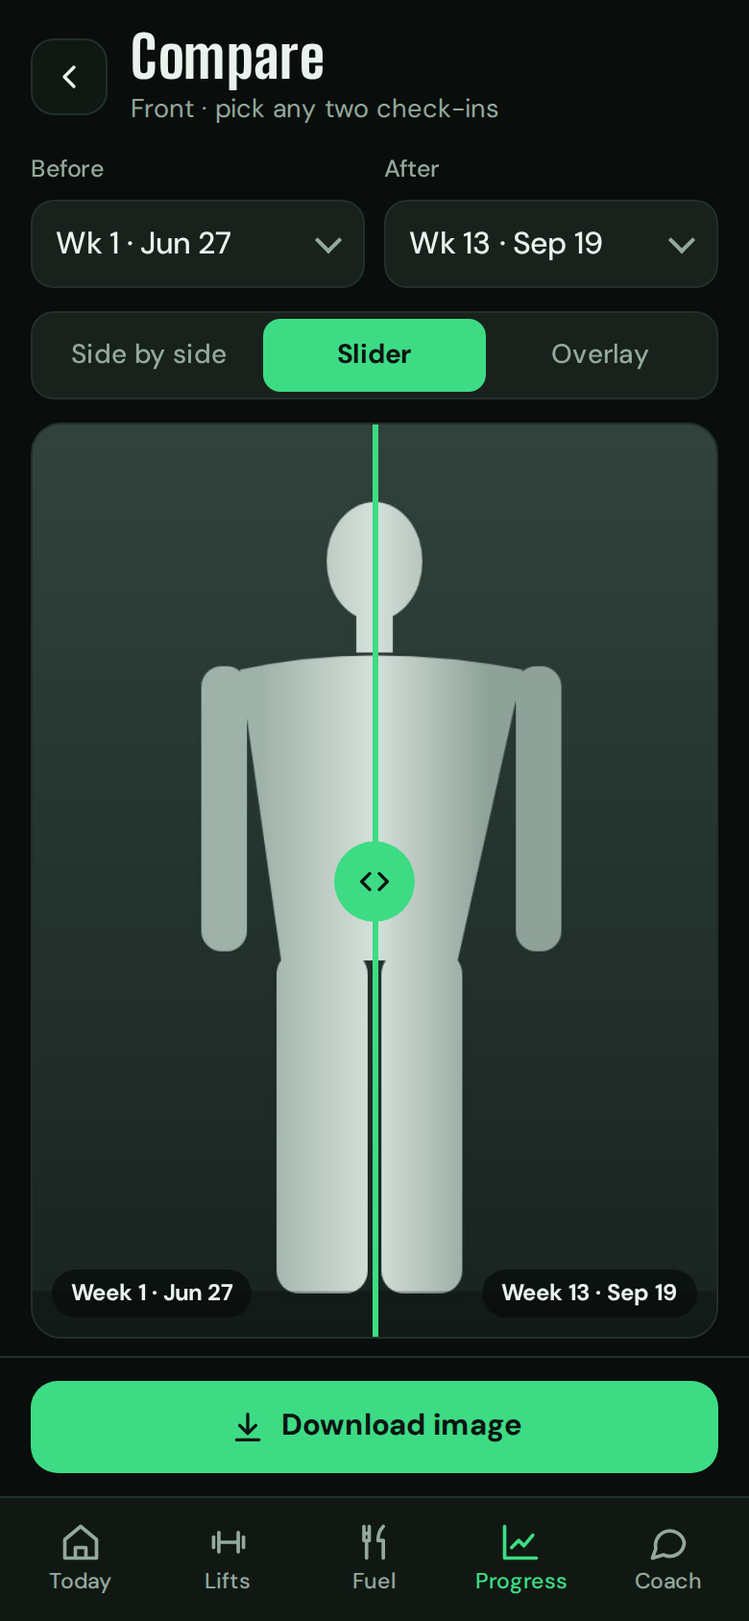
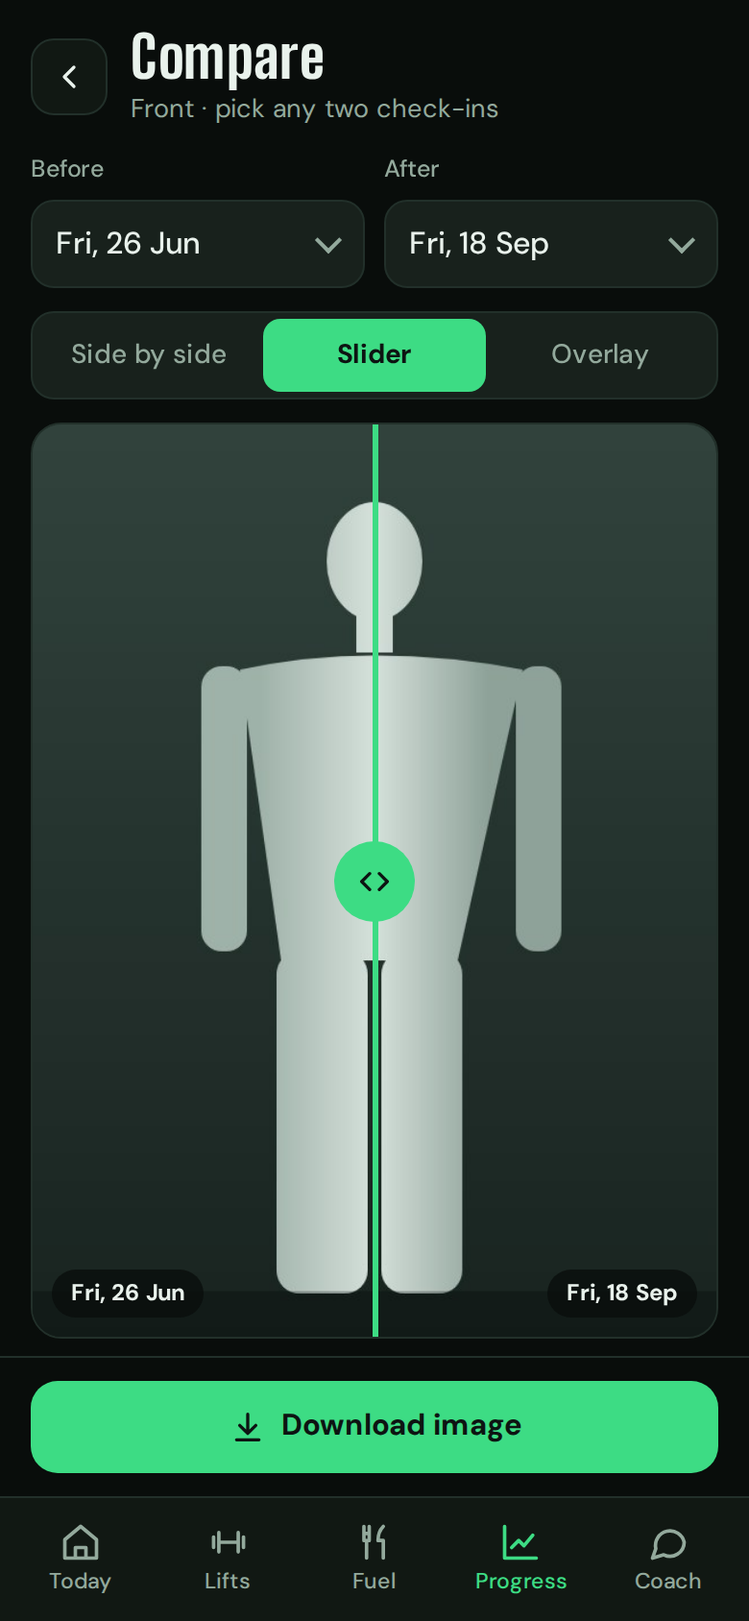
Label photo check-ins by date, not week number
Photos, trend, compare and exports now name each weekly check-in by its
date (Fri, 18 Sep). The Photos screen picks a check-in from one date list
instead of 26 "Wk N" pills, the trend scrubber shows about five date
labels, and compare downloads are named by their two dates. The internal
week index is unchanged and never shown. Service worker cache bumped to
v5 so installed copies pick this up.

diff --git a/js/screens-trend.js b/js/screens-trend.js
@@ -16,7 +16,10 @@
   // One decimal everywhere on these screens, so columns line up: 82.0, -1.0, +0.7.
   const f1 = (x) => (Math.round(x * 10) / 10).toFixed(1);
   const signed = (x) => { const v = Math.round(x * 10) / 10; return (v > 0 ? '+' : v < 0 ? '-' : '') + Math.abs(v).toFixed(1); };
-  const wk = (w) => 'Wk ' + w;
+  // Check-ins are labelled by their date, never by a week number. SLOT maps an internal check-in index to that date.
+  const SLOT = {};
+  const wk = (w) => (SLOT[w] ? U.shortDate(SLOT[w]) : '');
+  function setSlots(st, set, cis) { for (const c of cis) SLOT[c.week] = c.date || E.checkinDate(st.plan.startDate, c.week, set.checkinDay); }
   const clamp = (x, a, b) => Math.max(a, Math.min(b, x));
   function revokeUrls() { for (const u of urls) URL.revokeObjectURL(u); urls = []; }
   function stopTimer() { if (timer) clearInterval(timer); timer = null; }
@@ -87,6 +90,7 @@
     const angle = T.angle;
     const curWeek = E.clamp(E.weekOf(st.plan.startDate, U.today()), 1, E.WEEKS);
     const cis = E.checkIns(st, angle, curWeek), have = cis.filter((c) => c.photo), n = cis.length;
+    setSlots(st, set, cis);
     const pills = anglePills((a) => { T.angle = a; T.week = null; T.reveal = false; root.App.render(); });
     const back = { back: '#/photos' };
 
@@ -109,12 +113,13 @@
     const keys = ['weight', 'waist', third];
     const cards = keys.map((k) => ({ k, lab: h('span', { class: 'tl' }, KEYS[k].label), val: h('b', null), unit: h('small', null), delta: h('div', { class: 'td' }) }));
     const statRow = h('div', { class: 'tstats' }, cards.map((c) => h('div', { class: 'tstat' }, c.lab, h('div', { class: 'tv' }, c.val, c.unit), c.delta)));
-    const note = h('div', { class: 'muted small' }, 'Change since week ' + have[0].week + '. Green means toward your goal.');
+    const note = h('div', { class: 'muted small' }, 'Change since ' + wk(have[0].week) + '. Green means toward your goal.');
 
     // scrubber
     const line = h('div', { class: 'scrub-line' }, h('div', { class: 'scrub-fill' }));
-    const showLabel = (w) => n <= 10 || w === 1 || w === n || w % 5 === 0;
-    const dotEls = cis.map((c) => h('span', { class: 'sdot' + (c.photo ? ' has' : '') + (showLabel(c.week) ? '' : ' nolab') }, h('i', { class: 'd' }), h('b', { class: 'w' }, String(c.week))));
+    const every = Math.max(1, Math.ceil(n / 5)); // about five date labels along the line, so they never overlap
+    const showLabel = (i) => i === 0 || i === n - 1 || (i % every === 0 && n - 1 - i >= every);
+    const dotEls = cis.map((c, i) => h('span', { class: 'sdot' + (c.photo ? ' has' : '') + (showLabel(i) ? '' : ' nolab') + (i === 0 ? ' first' : i === n - 1 ? ' last' : '') }, h('i', { class: 'd' }), h('b', { class: 'w' }, wk(c.week))));
     const scrub = h('div', { class: 'scrub', role: 'slider', tabindex: '0', 'aria-label': 'Check-in', 'aria-valuemin': '0', 'aria-valuemax': String(n - 1) }, line, ...dotEls);
     scrub.style.setProperty('--n', String(n)); if (n > 14) scrub.classList.add('dense');
     const idxOf = (w) => cis.findIndex((c) => c.week === w);
@@ -137,9 +142,9 @@
 
     // thumbnails
     const thumbEls = cis.map((c) => {
-      if (!c.photo) return h('a', { href: '#/photos', class: 'tthumb none', 'aria-label': 'Add week ' + c.week + ' ' + angle + ' photo', onclick: () => Screens._.gotoWeek(c.week) }, h('span', { class: 'tbox' }, U.icon('plus', 18)), h('span', { class: 'tw' }, wk(c.week)));
+      if (!c.photo) return h('a', { href: '#/photos', class: 'tthumb none', 'aria-label': 'Add ' + angle + ' photo for ' + wk(c.week), onclick: () => Screens._.gotoWeek(c.week) }, h('span', { class: 'tbox' }, U.icon('plus', 18)), h('span', { class: 'tw' }, wk(c.week)));
       const im = h('img', { alt: '' });
-      return Object.assign(h('button', { type: 'button', class: 'tthumb', 'aria-label': 'Show week ' + c.week, onclick: () => { stop(); pick(c.week); } }, h('span', { class: 'tbox' + (blurOn ? ' blur' : '') }, im), h('span', { class: 'tw' }, wk(c.week))), { im });
+      return Object.assign(h('button', { type: 'button', class: 'tthumb', 'aria-label': 'Show ' + wk(c.week), onclick: () => { stop(); pick(c.week); } }, h('span', { class: 'tbox' + (blurOn ? ' blur' : '') }, im), h('span', { class: 'tw' }, wk(c.week))), { im });
     });
     const strip = h('div', { class: 'tstrip' }, thumbEls);
     const chartBox = h('div', null);
@@ -147,7 +152,7 @@
 
     const enough = have.length >= 2;
     const foot = h('div', { class: 'foot' },
-      UI.btn('Download time-lapse', { icon: 'download', disabled: !enough, onClick: () => Screens._.videoSheet({ angle, items: have, index: Math.max(0, have.findIndex((c) => c.week === T.week)), numbersText, wkLabel: (c) => 'Week ' + c.week + ' · ' + U.shortDate(c.date) }) }),
+      UI.btn('Download time-lapse', { icon: 'download', disabled: !enough, onClick: () => Screens._.videoSheet({ angle, items: have, index: Math.max(0, have.findIndex((c) => c.week === T.week)), numbersText, wkLabel: (c) => U.longDate(c.date) }) }),
       UI.btn('Compare two dates', { href: '#/photos/compare', kind: 'quiet' }),
       enough ? null : h('div', { class: 'muted small centered' }, 'Add this angle at two check-ins to download or compare.'));
 
@@ -179,14 +184,14 @@
       const cur = cis.find((c) => c.week === T.week), ci = idxOf(T.week), url = urlByWeek[T.week];
       const hidden = blurOn && !T.reveal;
       if (url) { if (img.getAttribute('src') !== url) img.src = url; } else img.removeAttribute('src');
-      img.alt = angle + ', week ' + cur.week;
+      img.alt = angle + ', ' + wk(cur.week);
       stage.classList.toggle('blur', hidden);
       badge.textContent = hidden ? 'Blurred · tap to reveal' : 'Tap to blur';
       eye.classList.toggle('hidden', !hidden);
       stage.setAttribute('aria-label', hidden ? 'Reveal photo' : 'Blur photo');
-      cap.textContent = loaded && !url ? 'This photo is not on this device' : 'Week ' + cur.week + ' · ' + U.shortDate(cur.date);
+      cap.textContent = loaded && !url ? 'This photo is not on this device' : U.longDate(cur.date);
       // scrubber
-      scrub.setAttribute('aria-valuenow', String(ci)); scrub.setAttribute('aria-valuetext', 'Week ' + cur.week + ', ' + U.shortDate(cur.date));
+      scrub.setAttribute('aria-valuenow', String(ci)); scrub.setAttribute('aria-valuetext', U.longDate(cur.date));
       line.firstChild.style.width = (n > 1 ? (ci / (n - 1)) * 100 : 0) + '%';
       cis.forEach((c, i) => { dotEls[i].classList.toggle('cur', i === ci); dotEls[i].classList.toggle('past', i < ci); });
       thumbEls.forEach((t, i) => { if (!cis[i].photo) return; t.classList.toggle('cur', i === ci); const u = urlByWeek[cis[i].week]; if (u && t.im.getAttribute('src') !== u) t.im.src = u; });
@@ -223,6 +228,7 @@
     const st = Store.getState(), set = Store.getSettings();
     if (!T.angle) T.angle = trendAngle(st);
     const angle = T.angle, cis = E.checkIns(st, angle), have = cis.filter((c) => c.photo);
+    setSlots(st, set, cis);
     const head = UI.header('Compare', angle + ' · pick any two check-ins', { back: '#/photos/trend' });
     if (have.length < 2) {
       return UI.page(head, UI.scroller(UI.card(h('div', { class: 'muted' }, 'Add ' + angle + ' photos at two check-ins to compare them.'), UI.btn('Open photo check-in', { href: '#/photos', kind: 'quiet' }))));
@@ -234,7 +240,7 @@
 
     const selectFor = (which, label) => {
       const s = h('select', { class: 'inp', 'aria-label': label, onchange: () => { CMP[which] = Number(s.value); redraw(); } },
-        ...have.map((c) => h('option', { value: String(c.week), selected: c.week === CMP[which] }, wk(c.week) + ' · ' + U.shortDate(c.date))));
+        ...have.map((c) => h('option', { value: String(c.week), selected: c.week === CMP[which] }, U.longDate(c.date))));
       return h('label', { class: 'field flex' }, h('span', { class: 'lab' }, label), h('span', { class: 'selbox' }, s));
     };
     const modeSeg = UI.seg({ options: [{ value: 'side', label: 'Side by side' }, { value: 'slider', label: 'Slider' }, { value: 'overlay', label: 'Overlay' }], value: CMP.mode, onChange: (v) => { CMP.mode = v; redraw(); } });
@@ -246,12 +252,12 @@
     let loaded = false;
 
     const pill = (t, side) => h('span', { class: 'cmplabel ' + side }, t);
-    const photo = (w, cls) => { const im = h('img', { class: cls || '', alt: angle + ' week ' + w }); const u = urlByWeek[w]; if (u) im.src = u; return im; };
+    const photo = (w, cls) => { const im = h('img', { class: cls || '', alt: angle + ', ' + wk(w) }); const u = urlByWeek[w]; if (u) im.src = u; return im; };
 
     function redraw() {
       const ca = byWeek(CMP.a), cb = byWeek(CMP.b), hidden = blurOn && !CMP.reveal;
       U.clear(stageBox);
-      const la = 'Week ' + ca.week + ' · ' + U.shortDate(ca.date), lb = 'Week ' + cb.week + ' · ' + U.shortDate(cb.date);
+      const la = U.longDate(ca.date), lb = U.longDate(cb.date);
       if (CMP.mode === 'side') {
         stageBox.appendChild(h('div', { class: 'cmp-side' + (hidden ? ' blur' : '') }, h('div', { class: 'cmp-cell' }, photo(ca.week), pill(wk(ca.week), 'l')), h('div', { class: 'cmp-cell' }, photo(cb.week), pill(wk(cb.week), 'l'))));
         help.textContent = 'Same pose, same light. Look at the same spots on both.';

diff --git a/js/screens-progress.js b/js/screens-progress.js
@@ -150,7 +150,11 @@
     const cur = E.clamp(E.weekOf(plan.startDate, t), 1, E.WEEKS);
     if (selWeek == null || selWeek > cur) selWeek = cur;
     const chosen = selWeek;
-    const wkSeg = UI.pills({ label: 'Check-in week', items: E.PHOTO_WEEKS.filter((w) => w <= cur).map((w) => 'Wk ' + w), values: new Set(['Wk ' + chosen]), multi: false, onChange: (v) => { selWeek = Number(Array.from(v)[0].slice(3)); root.App.render(); } });
+    const ciName = (w) => U.shortDate(E.checkinDate(plan.startDate, w, set.checkinDay));
+    // One check-in per week, named by its date. A list rather than a wall of pills: 26 weeks is a lot of buttons.
+    const wkSel = h('select', { class: 'inp', 'aria-label': 'Check-in date', onchange: () => { selWeek = Number(wkSel.value); root.App.render(); } },
+      ...E.PHOTO_WEEKS.filter((w) => w <= cur).reverse().map((w) => h('option', { value: String(w), selected: w === chosen }, U.longDate(E.checkinDate(plan.startDate, w, set.checkinDay)) + (w === cur ? ' (this week)' : ''))));
+    const wkSeg = h('label', { class: 'field' }, h('span', { class: 'lab' }, 'Check-in date'), h('span', { class: 'selbox' }, wkSel));
     const input = h('input', { type: 'file', accept: 'image/*', class: 'hidden', 'aria-label': 'Choose a photo' });
     let pendingAngle = null;
     input.addEventListener('change', async () => {
@@ -173,7 +177,7 @@
     for (const angle of E.ANGLES) {
       const p = st.photos.find((x) => x.week === chosen && x.angle === angle);
       if (!p) { slots.appendChild(h('button', { type: 'button', class: 'thumb empty-slot', onclick: () => pick(angle), 'aria-label': 'Add ' + angle + ' photo' }, h('div', null, U.icon('camera', 24), h('div', null, angle)))); continue; }
-      const img = h('img', { alt: angle + ', week ' + chosen });
+      const img = h('img', { alt: angle + ', ' + ciName(chosen) });
       const holder = h('button', { type: 'button', class: 'thumb' + (set.blurPhotos ? ' blur' : ''), 'aria-label': 'Open ' + angle + ' photo' }, img, h('div', { class: 'lbl' }, angle));
       holder.addEventListener('click', () => viewer(p));
       slots.appendChild(holder);
@@ -181,7 +185,7 @@
     }
     function viewer(p) {
       const img = h('img', { alt: p.angle, class: 'viewer-img' });
-      const box = h('div', { class: 'stack' }, img, h('div', { class: 'muted small' }, p.angle + ' · week ' + p.week + ' · ' + U.shortDate(p.date)));
+      const box = h('div', { class: 'stack' }, img, h('div', { class: 'muted small' }, p.angle + ' · ' + U.longDate(p.date)));
       fillImg(img, p.id, box);
       U.sheet('Photo', box, [{ label: 'Replace', kind: 'quiet', run: () => { setTimeout(() => pick(p.angle), 0); } }, { label: 'Delete', kind: 'danger', run: async () => { await Store.voidEvent(p.seq); await Store.delMedia(p.id); root.App.render(); } }, { label: 'Close', kind: 'primary' }]);
     }
@@ -192,8 +196,8 @@
     let pair = null;
     if (tHave.length >= 2) {
       const first = tHave[0], last = tHave[tHave.length - 1];
-      const ia = h('img', { alt: tAngle + ' week ' + first.week }), ib = h('img', { alt: tAngle + ' week ' + last.week });
-      const ta = h('div', { class: 'trendthumb' + (set.blurPhotos ? ' blur' : '') }, ia, h('span', { class: 'lbl' }, 'Week ' + first.week)), tb = h('div', { class: 'trendthumb' + (set.blurPhotos ? ' blur' : '') }, ib, h('span', { class: 'lbl' }, 'Week ' + last.week));
+      const ia = h('img', { alt: tAngle + ', ' + U.shortDate(first.date) }), ib = h('img', { alt: tAngle + ', ' + U.shortDate(last.date) });
+      const ta = h('div', { class: 'trendthumb' + (set.blurPhotos ? ' blur' : '') }, ia, h('span', { class: 'lbl' }, U.shortDate(first.date))), tb = h('div', { class: 'trendthumb' + (set.blurPhotos ? ' blur' : '') }, ib, h('span', { class: 'lbl' }, U.shortDate(last.date)));
       pair = h('div', { class: 'trendpair' }, ta, tb);
       fillImg(ia, first.photo.id, ta); fillImg(ib, last.photo.id, tb);
     }
@@ -205,7 +209,7 @@
 
     return UI.page(UI.header('Photos', 'Stored on this device only.', { back: '#/progress' }), UI.scroller(
       wkSeg,
-      UI.card(h('div', { class: 'target-top' }, h('div', { class: 'ct' }, 'Week ' + chosen + (cur === chosen ? ' · this week' : '')), h('span', { class: 'muted small' }, 'Check-in ' + U.longDate(E.checkinDate(plan.startDate, chosen, set.checkinDay)))), slots, h('div', { class: 'muted small' }, 'Same spot, same light, same time of day, relaxed then flexed. Photos are compressed and stripped of location data when saved.'), input),
+      UI.card(h('div', { class: 'target-top' }, h('div', { class: 'ct' }, U.longDate(E.checkinDate(plan.startDate, chosen, set.checkinDay))), h('span', { class: 'muted small' }, cur === chosen ? 'This week' : 'Earlier check-in')), slots, h('div', { class: 'muted small' }, 'Same spot, same light, same time of day, relaxed then flexed. Photos are compressed and stripped of location data when saved.'), input),
       trendCard,
       UI.toggleRow('Blur thumbnails', 'Hide photos on screen until you open one', !!set.blurPhotos, (v) => { Store.saveSettings({ blurPhotos: v }).then(() => root.App.render()); })));
   };

diff --git a/js/screens-export.js b/js/screens-export.js
@@ -71,7 +71,7 @@
       U.put(box,
         h('div', { class: 'target-top' }, h('span', { class: 'chip line' }, o.angle + ' · ' + frames.length + ' photos'), set.blurPhotos ? h('span', { class: 'muted small' }, 'Preview is blurred') : null),
         h('div', { class: 'expgrid' }, prev, h('div', { class: 'stack' }, shape, speed)),
-        UI.toggleRow('Week and date', 'Shown on each frame', opt.labels, (v) => { opt.labels = v; refresh(); }),
+        UI.toggleRow('Date', 'Shown on each frame', opt.labels, (v) => { opt.labels = v; refresh(); }),
         UI.toggleRow('Weight and waist', 'Shown on each frame', opt.numbers, (v) => { opt.numbers = v; refresh(); }),
         privacyNote(),
         supported ? null : h('div', { class: 'warnbox', role: 'alert' }, 'This browser cannot save video as MP4. Open Orbit in Safari or Chrome, or save a comparison image instead.'),
@@ -106,8 +106,8 @@
     const ma = await Store.getMedia(o.a.photo.id), mb = await Store.getMedia(o.b.photo.id);
     if (!ma || !mb) { U.toast('One of those photos is not on this device.', 'warn'); return; }
     const opt = { layout: 'side', format: 'jpeg', labels: true, table: o.rows.length > 0 };
-    const A = { blob: ma.blob, label: 'Week ' + o.a.week + ' · ' + U.shortDate(o.a.date) }, B = { blob: mb.blob, label: 'Week ' + o.b.week + ' · ' + U.shortDate(o.b.date) };
-    const build = (scale) => MediaOut.composeComparison({ a: A, b: B, layout: opt.layout, format: scale ? 'jpeg' : opt.format, labels: opt.labels, rows: opt.table ? o.rows : null, head: ['Wk ' + o.a.week, 'Wk ' + o.b.week], pos: o.pos, blend: o.blend, scale });
+    const A = { blob: ma.blob, label: U.longDate(o.a.date) }, B = { blob: mb.blob, label: U.longDate(o.b.date) };
+    const build = (scale) => MediaOut.composeComparison({ a: A, b: B, layout: opt.layout, format: scale ? 'jpeg' : opt.format, labels: opt.labels, rows: opt.table ? o.rows : null, head: [U.shortDate(o.a.date), U.shortDate(o.b.date)], pos: o.pos, blend: o.blend, scale });
     const box = h('div', { class: 'stack' });
     const urls = [];
     let tok = 0, prevUrl = null, closeSheet = null;
@@ -129,9 +129,9 @@
       const layout = UI.seg({ label: 'Layout', options: [{ value: 'side', label: 'Side by side' }, { value: 'slider', label: 'Slider view' }, { value: 'overlay', label: 'Overlay' }], value: opt.layout, onChange: (v) => { opt.layout = v; refresh(); } });
       const type = UI.seg({ label: 'File type', options: [{ value: 'jpeg', label: 'JPEG' }, { value: 'png', label: 'PNG' }], value: opt.format, onChange: (v) => { opt.format = v; } });
       U.put(box,
-        h('div', { class: 'target-top' }, h('span', { class: 'chip line' }, o.angle + ' · Wk ' + o.a.week + ' vs Wk ' + o.b.week), set.blurPhotos ? h('span', { class: 'muted small' }, 'Preview is blurred') : null),
+        h('div', { class: 'target-top' }, h('span', { class: 'chip line' }, o.angle + ' · ' + U.shortDate(o.a.date) + ' vs ' + U.shortDate(o.b.date)), set.blurPhotos ? h('span', { class: 'muted small' }, 'Preview is blurred') : null),
         prev, layout, type,
-        UI.toggleRow('Week and date labels', 'Shown on the image', opt.labels, (v) => { opt.labels = v; refresh(); }),
+        UI.toggleRow('Date labels', 'Shown on the image', opt.labels, (v) => { opt.labels = v; refresh(); }),
         o.rows.length ? UI.toggleRow('Measurements table', 'Added under the photos', opt.table, (v) => { opt.table = v; refresh(); }) : null,
         privacyNote(),
         UI.btn('Save image', { icon: 'download', onClick: save }),
@@ -145,7 +145,7 @@
       try {
         const blob = await build(0);
         const ext = opt.format === 'png' ? 'png' : 'jpg';
-        resultView(box, { kind: 'image', blob, ext, name: 'orbit-compare-' + slug(o.angle) + '-wk' + o.a.week + '-wk' + o.b.week + '-' + U.today() + '.' + ext, track: (u) => urls.push(u), close: closeSheet, again: options });
+        resultView(box, { kind: 'image', blob, ext, name: 'orbit-compare-' + slug(o.angle) + '-' + o.a.date + '-to-' + o.b.date + '.' + ext, track: (u) => urls.push(u), close: closeSheet, again: options });
       } catch (e) { options(); U.toast(String(e && e.message ? e.message : e), 'warn'); }
     }
     options();

diff --git a/css/app.css b/css/app.css
@@ -316,16 +316,19 @@ input[type=number]::-webkit-inner-spin-button, input[type=number]::-webkit-outer
 .playbtn { width: 52px; height: 52px; border-radius: 50%; border: 0; background: var(--acc); color: var(--on); display: flex; align-items: center; justify-content: center; flex-shrink: 0; }
 .playbtn:disabled { opacity: 0.45; cursor: default; }
 .speedchip { min-height: 30px; background: var(--surf2); }
-.scrub { position: relative; flex: 1; min-width: 0; display: grid; grid-template-columns: repeat(var(--n, 7), 1fr); padding-top: 2px; touch-action: none; cursor: pointer; border-radius: 10px; }
+.scrub { position: relative; flex: 1; min-width: 0; display: grid; grid-template-columns: repeat(var(--n, 7), minmax(0, 1fr)); padding: 2px 0 24px; touch-action: none; cursor: pointer; border-radius: 10px; }
 .scrub-line { position: absolute; left: calc(50% / var(--n, 7)); right: calc(50% / var(--n, 7)); top: 11px; height: 4px; border-radius: 4px; background: var(--track); }
 .scrub-fill { height: 100%; width: 0; border-radius: 4px; background: var(--acc); }
-.sdot { position: relative; display: flex; flex-direction: column; align-items: center; gap: 6px; }
+.sdot { position: relative; display: flex; flex-direction: column; align-items: center; min-width: 0; }
 .sdot .d { display: block; width: 12px; height: 12px; margin-top: 6px; border-radius: 50%; background: var(--paper); border: 2px solid var(--track); }
 .sdot.has .d { background: var(--acc); border-color: var(--acc); }
 .sdot .w { font-size: 11.5px; font-weight: 500; color: var(--ink2); }
 .sdot.cur .d { width: 22px; height: 22px; margin-top: 1px; background: var(--acc); border: 4px solid var(--acc-bg); box-shadow: 0 0 0 2px var(--acc); }
 .sdot.cur .w { color: var(--ink); font-weight: 700; }
-.sdot.nolab:not(.cur) .w { visibility: hidden; }
+.sdot .w { position: absolute; top: 28px; left: 50%; transform: translateX(-50%); white-space: nowrap; }
+.sdot.first .w { left: 0; transform: none; }
+.sdot.last .w { left: auto; right: 0; transform: none; }
+.sdot.nolab .w { visibility: hidden; }
 .scrub.dense .sdot .d { width: 7px; height: 7px; margin-top: 8px; border-width: 1.5px; }
 .scrub.dense .sdot.cur .d { width: 18px; height: 18px; margin-top: 3px; border-width: 3px; }
 .tstrip { display: grid; grid-template-columns: repeat(7, 1fr); gap: 6px; }

diff --git a/js/screens-today.js b/js/screens-today.js
@@ -167,7 +167,7 @@
     }
     if (ci && ci.missed.length) {
       const w = ci.missed[ci.missed.length - 1];
-      cards.push(UI.cardX('coral', h('div', { class: 'ct' }, 'Week ' + w + ' check-in is missing'), h('div', { class: 'muted' }, ci.missed.length > 1 ? ci.missed.length + ' weekly check-ins are not finished. Start with the latest.' : 'The weekly photo check-in is not finished. Add the photos you can now.'), UI.btn('Add week ' + w + ' photos', { href: '#/photos', onClick: () => Screens._.gotoWeek(w) })));
+      cards.push(UI.cardX('coral', h('div', { class: 'ct' }, 'The check-in for ' + U.longDate(E.checkinDate(st.plan.startDate, w, set.checkinDay)) + ' is missing'), h('div', { class: 'muted' }, ci.missed.length > 1 ? ci.missed.length + ' weekly check-ins are not finished. Start with the latest.' : 'The weekly photo check-in is not finished. Add the photos you can now.'), UI.btn('Add those photos', { href: '#/photos', onClick: () => Screens._.gotoWeek(w) })));
     }
     if (ci && (ci.status === 'due' || ci.status === 'overdue')) {
       cards.push(UI.cardX(ci.status === 'overdue' ? 'coral' : 'acc', h('div', { class: 'ct' }, ci.status === 'overdue' ? 'Weekly check-in is overdue' : 'Weekly check-in today'),

diff --git a/sw.js b/sw.js
@@ -4,7 +4,7 @@
  * your data lives in IndexedDB, which this file cannot read.
  */
 'use strict';
-const CACHE = 'orbit-shell-v4';
+const CACHE = 'orbit-shell-v5';
 const SHELL = [
   './', 'index.html', 'manifest.webmanifest', 'css/app.css',
   'js/engine.js', 'js/util.js', 'js/crypto.js', 'js/store.js', 'js/llm.js', 'js/foods.js', 'js/foodai.js', 'js/coach.js', 'js/ui.js',

diff --git a/docs/ARCHITECTURE.md b/docs/ARCHITECTURE.md
@@ -43,7 +43,7 @@ A short tour of how Orbit is put together and why. It is written so you can expl
 
 **Offline through a service worker.** Cache the app shell, serve stale-while-revalidate. It never caches or reads user data: that lives in IndexedDB.
 
-**Weekly check-in is derived too.** Every plan week is a photo week, and the weekday it lands on is one setting (`checkinDay`, Friday by default). `Engine.checkinDate` finds that day inside each plan week and `Engine.checkinStatus` says whether this week is upcoming, due, overdue or done (all five angles saved) and lists earlier weeks left unfinished. Nothing new is stored: the status is computed from the photo events, so it also survives a restore. The web cannot force anything, so "mandatory" means Today keeps a card up until the week is done and flags the ones you missed.
+**Weekly check-in is derived too.** Every plan week is a photo week, and the weekday it lands on is one setting (`checkinDay`, Friday by default). `Engine.checkinDate` finds that day inside each plan week and `Engine.checkinStatus` says whether this week is upcoming, due, overdue or done (all five angles saved) and lists earlier weeks left unfinished. Photos are shown by date only: the internal week index (1 to 26) never appears on a photo screen, in an export, or in a file name (`orbit-compare-front-2026-06-26-to-2026-09-18.png`), and empty check-ins use the date the day setting gives them. Nothing new is stored: the status is computed from the photo events, so it also survives a restore. The web cannot force anything, so "mandatory" means Today keeps a card up until the week is done and flags the ones you missed.
 
 **One backup file, replaced each time.** A backup always uses the same name (`orbit-backup.orbitbackup`). A browser cannot delete files it did not just create, so replacing the old copy depends on where you save: in Chrome or Edge on a computer you can pick a folder once (the folder handle is kept in the local meta store), and each backup then overwrites that file and removes older `orbit-*.orbitbackup` files there, after the new one is fully written and touching nothing else in the folder. The iPhone and iPad Files sheet offers Replace for a same-named file, and Safari on a Mac downloads a numbered copy.
 

diff --git a/README.md b/README.md
@@ -24,6 +24,7 @@ Everything is plain HTML, CSS and JavaScript. There is nothing to build and no r
 </p>
 
 <p align="center">
+  <img src="docs/img/checkin.png" width="200" alt="Weekly photo check-in: pick a check-in by its date, then add the five angles">
   <img src="docs/img/photo-trend.png" width="200" alt="Photo trend: scrub through check-ins with the numbers of each day under the photo">
   <img src="docs/img/photo-compare.png" width="200" alt="Compare: any two check-ins with a slider, and a button to download the image">
   <img src="docs/img/profile.png" width="200" alt="Profile: your basics, your plan, and the weekly check-in day">
@@ -99,7 +100,7 @@ Two things worth knowing:
 
 ## Your photo trend
 
-Take the same five angles at your weekly check-in. The day is yours to set in **Profile** (Friday to begin with); Today asks for it that day, stays on it until all five are saved, and flags any week you missed. Then:
+Take the same five angles at your weekly check-in. The day is yours to set in **Profile** (Friday to begin with); Today asks for it that day, stays on it until all five are saved, and flags any week you missed. Check-ins are named by their date (Fri, 18 Sep), never "week 5": the Photos screen has one list of dates, and the trend, compare and downloads all show dates. Then:
 
 1. Progress, then **Open** on Progress photos, then **See trend** in the Your photo trend card. Pick an angle and drag along the check-in dots, or press play. The weight and measurements from around each photo's date sit under it, and green means the change is toward your goal.
 2. **Compare two dates** lets you pick any two check-ins and view them side by side, with a slider, or as an overlay that helps you line up your pose. The table underneath shows the change.
